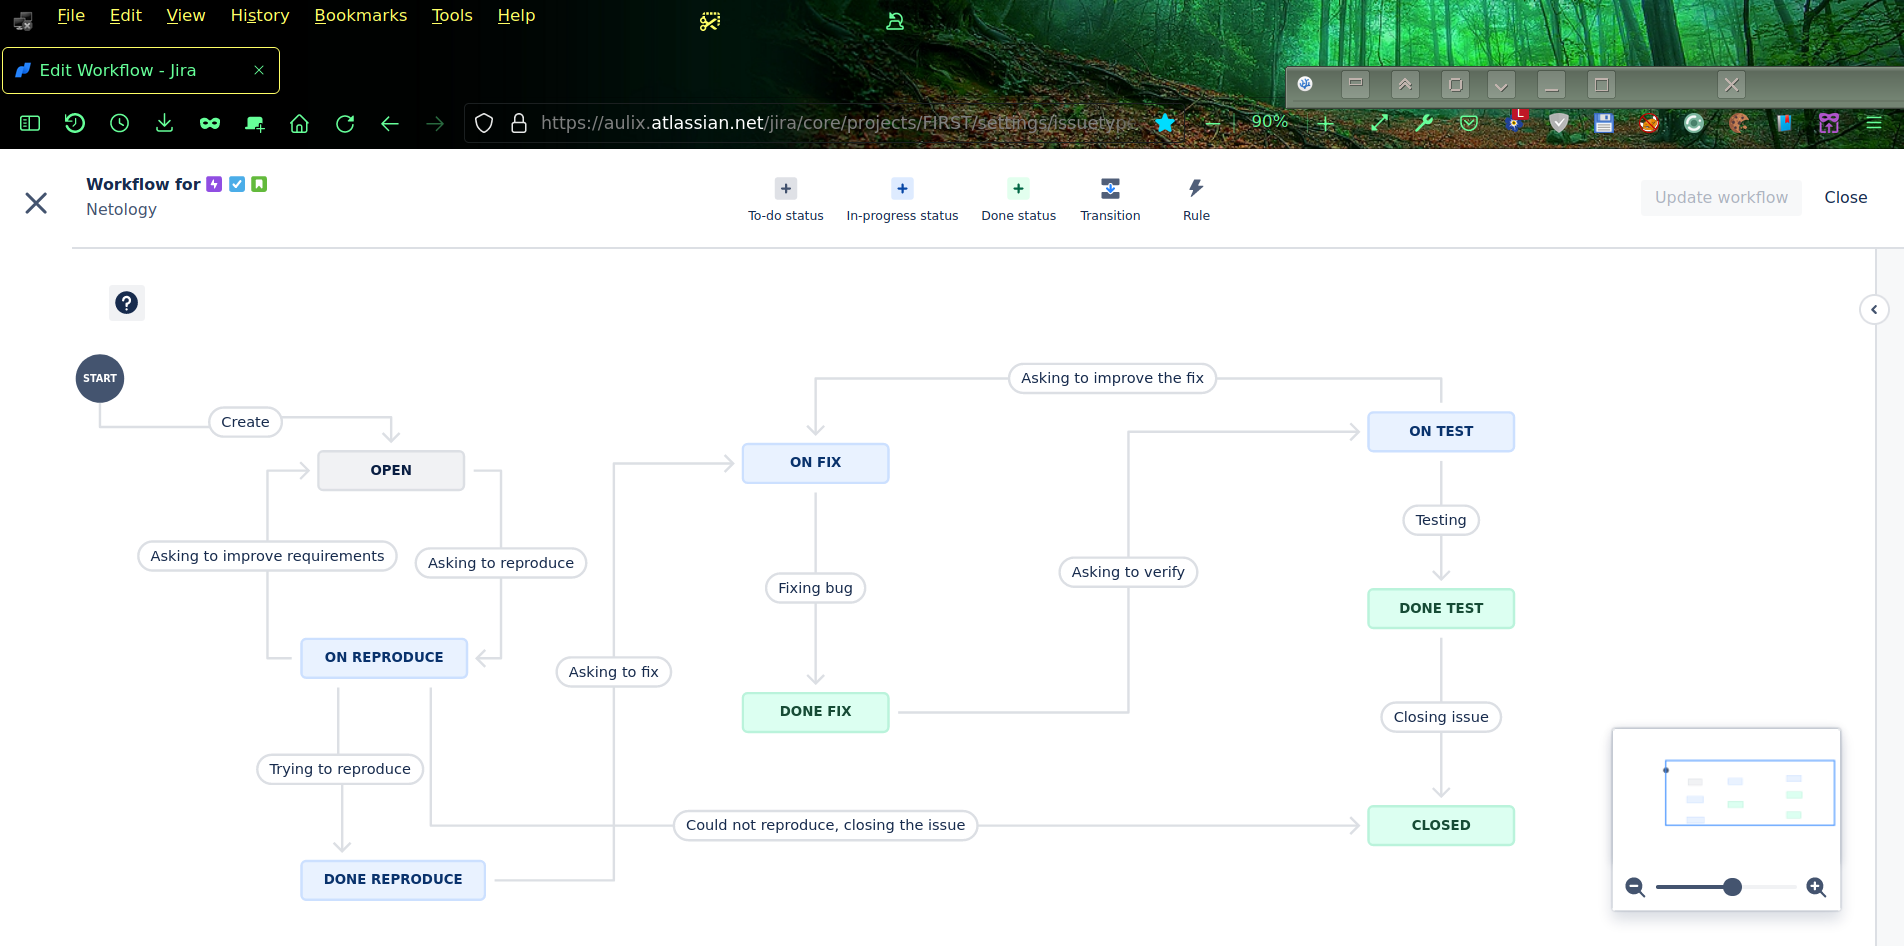
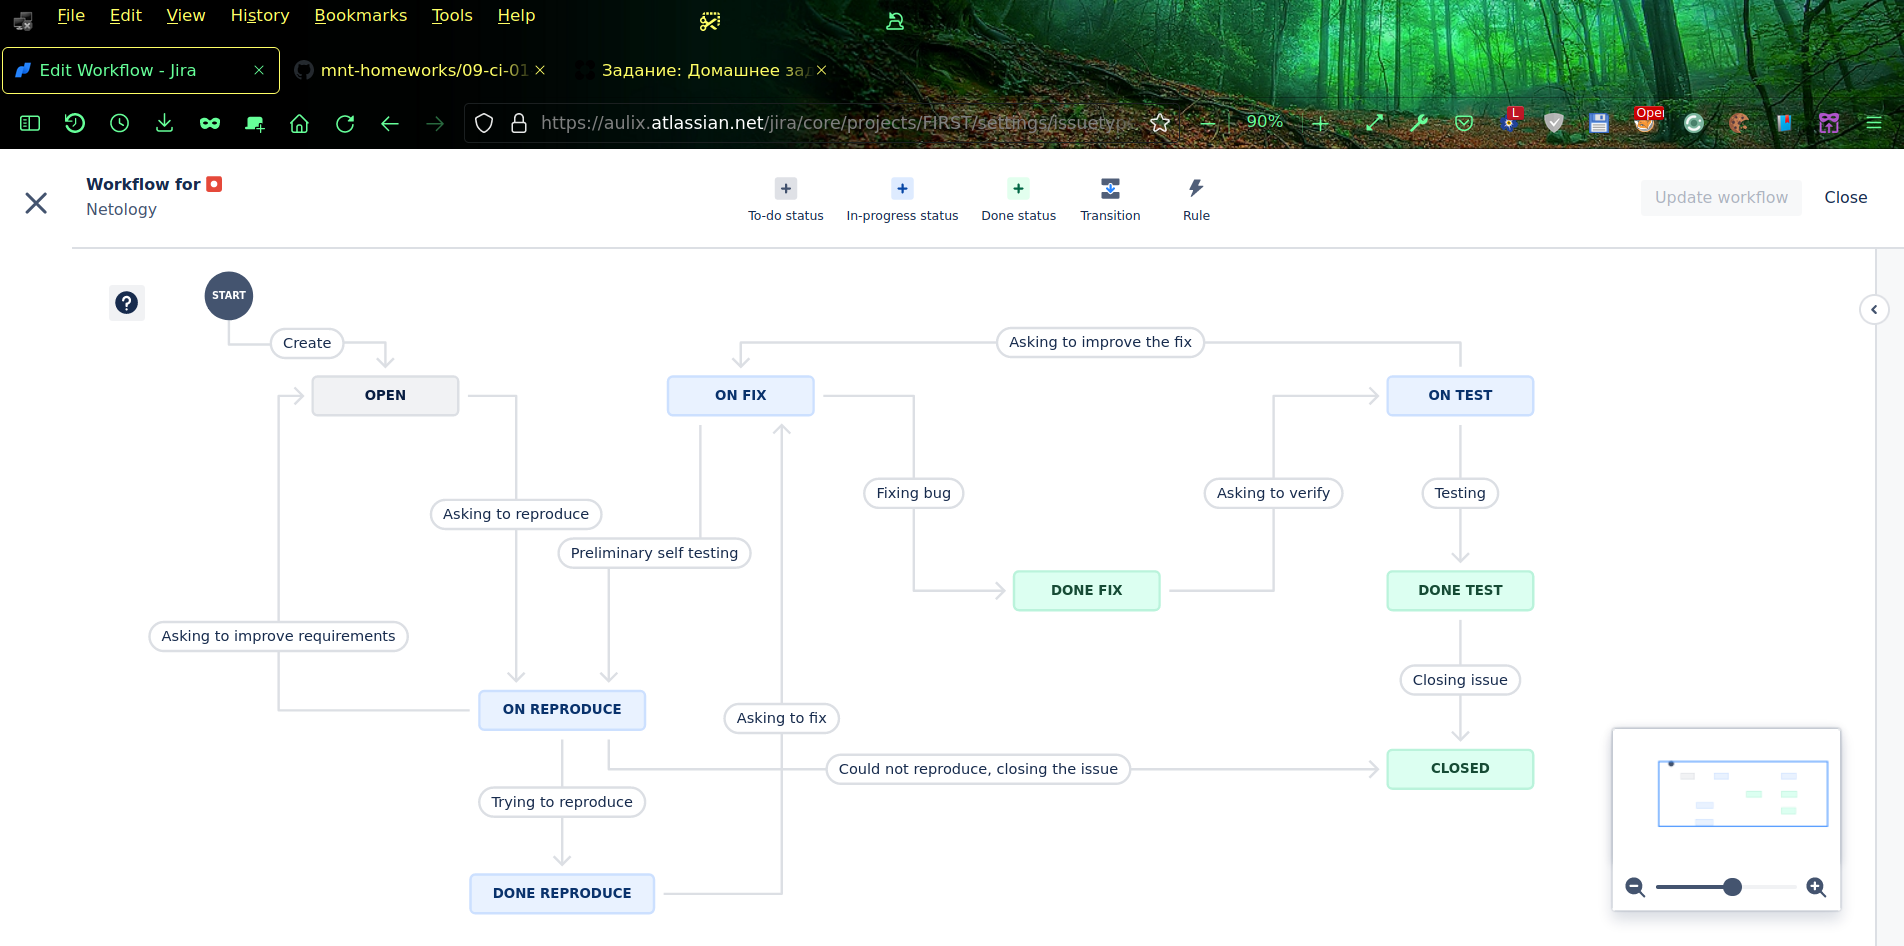
New workflow diagram

diff --git a/09-ci-01-intro/README.md b/09-ci-01-intro/README.md
@@ -19,14 +19,8 @@
 Создаю workflow для issue типа Bug:
 ![](images/bug_workflow.png)
 
-
-Остальные задачи должны проходить по упрощённому workflow:
-
-1. Open -> On develop.
-2. On develop -> Open, Done develop.
-3. Done develop -> On test.
-4. On test -> On develop, Done.
-5. Done -> Closed, Open.
+ и workflow для issue других типов:
+![](images/feature_workflow.png) 
 
 **Что нужно сделать**
 
@@ -35,5 +29,6 @@
 1. При проведении обеих задач по статусам используйте kanban. 
 1. Верните задачи в статус Open.
 1. Перейдите в Scrum, запланируйте новый спринт, состоящий из задач эпика и одного бага, стартуйте спринт, проведите задачи до состояния Closed. Закройте спринт.
-2. Если всё отработалось в рамках ожидания — выгрузите схемы workflow для импорта в XML. Файлы с workflow и скриншоты workflow приложите к решению задания.
+2. выгрузите схемы workflow для импорта в XML. 
+   Файлы с workflow и скриншоты workflow приложите к решению задания.
 
